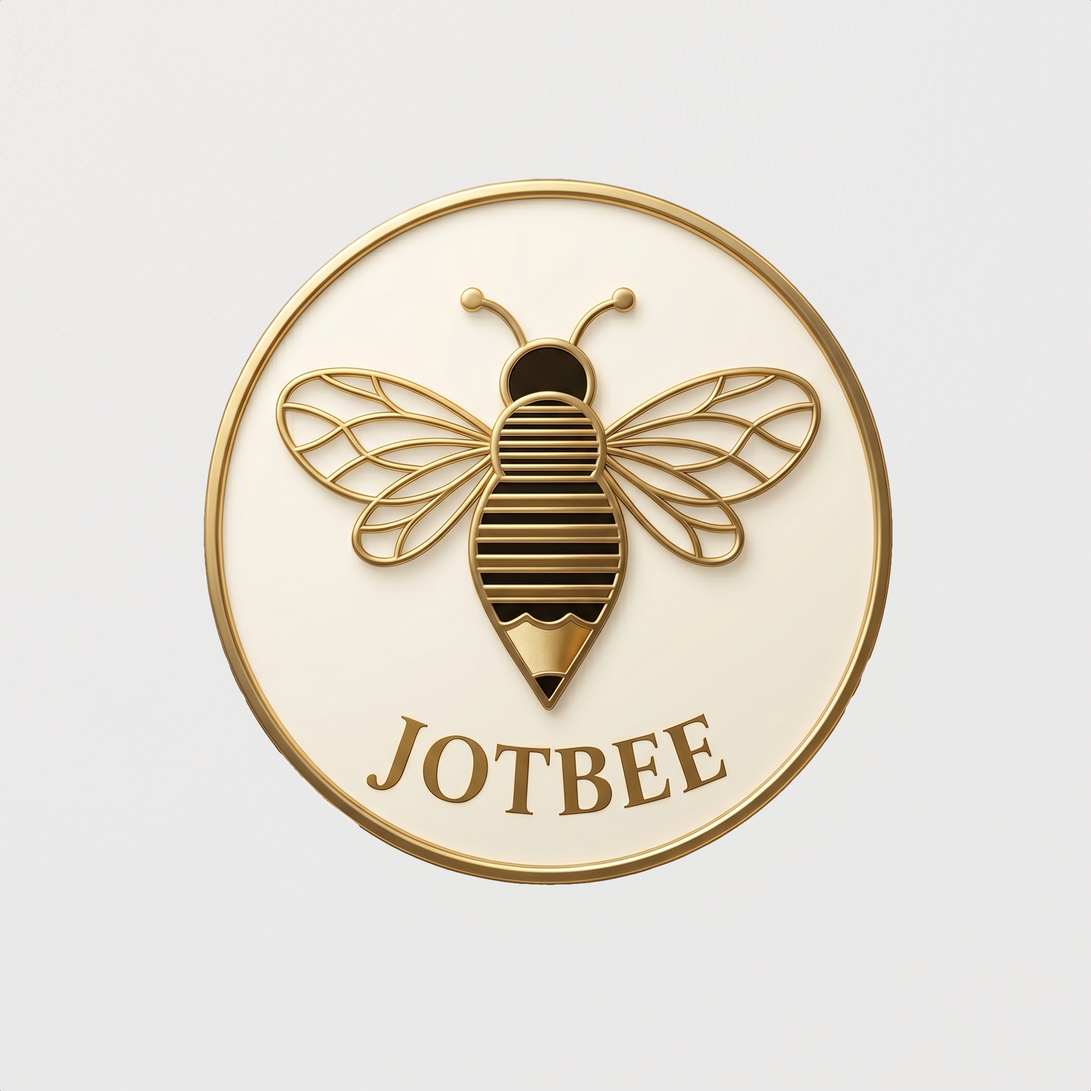
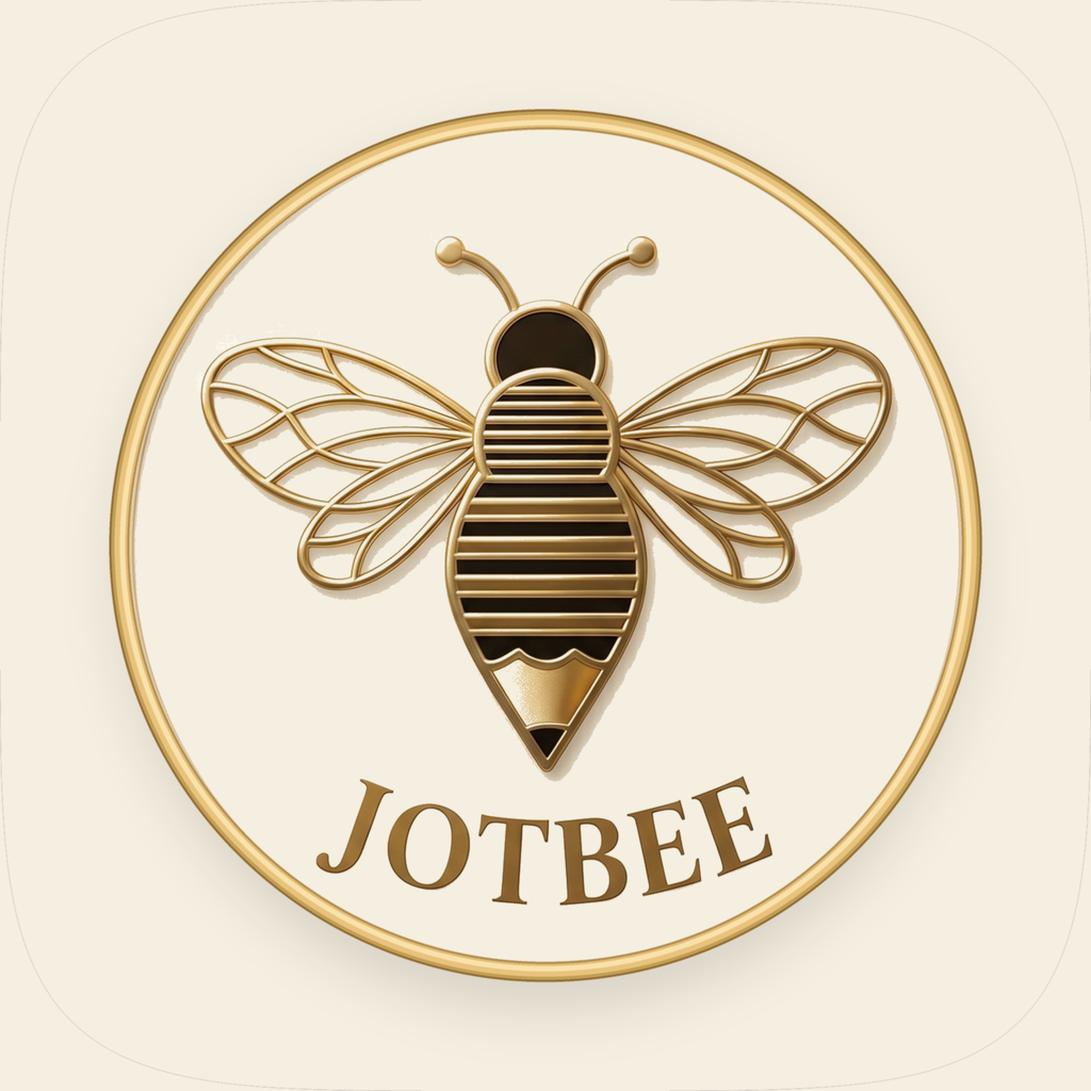
v1.1.0 视觉升级：新应用图标 + What's New 卡片
- 图标 1024 源图同步到 icon.png / apple-touch-icon / favicon
- favicon 从 SVG 换 PNG
- Hero 区后新增 v1.1.0 更新说明 section

Changed region(s): [[0.0938, 0.0938, 0.9062, 0.9375]]

diff --git a/index.html b/index.html
@@ -6,7 +6,7 @@
     <title>JotBee — 随手记录，酿造生活</title>
     <meta name="description" content="JotBee 是一款完全免费的日记 App。即开即写，数据本地存储，支持宝宝成长记录和 AI 辅助写作。macOS + iOS 双平台原生体验。">
     <meta name="keywords" content="JotBee,日记app,免费日记,宝宝成长记录,AI写作,本地存储,隐私日记,macOS日记,iOS日记">
-    <link rel="icon" href="/favicon.svg" type="image/svg+xml">
+    <link rel="icon" href="/favicon.png" type="image/png">
     <link rel="apple-touch-icon" href="/apple-touch-icon.png">
     <meta name="theme-color" content="#1A1208">
     <link rel="canonical" href="https://jotbee.app/">
@@ -59,6 +59,19 @@
             </div>
             <div class="screenshot-showcase">
                 <img src="screenshot-mac.jpg" alt="JotBee macOS 编辑界面" loading="lazy">
+            </div>
+        </div>
+    </div>
+
+    <!-- What's New — Light -->
+    <div id="whats-new" class="section section-light fade-in">
+        <div class="section-inner">
+            <span class="section-icon">✨</span>
+            <h2 class="headline-section">v1.1.0 · 2026-04-24</h2>
+            <div style="max-width: 560px; margin: 32px auto 0; text-align: left; line-height: 1.9;">
+                <p style="margin: 10px 0;">🎨 全新应用图标，视觉更成熟</p>
+                <p style="margin: 10px 0;">☁ 照片支持 iCloud 同步，跨设备无缝流动</p>
+                <p style="margin: 10px 0;">📱 iOS 已上线 App Store，macOS 审核中</p>
             </div>
         </div>
     </div>
